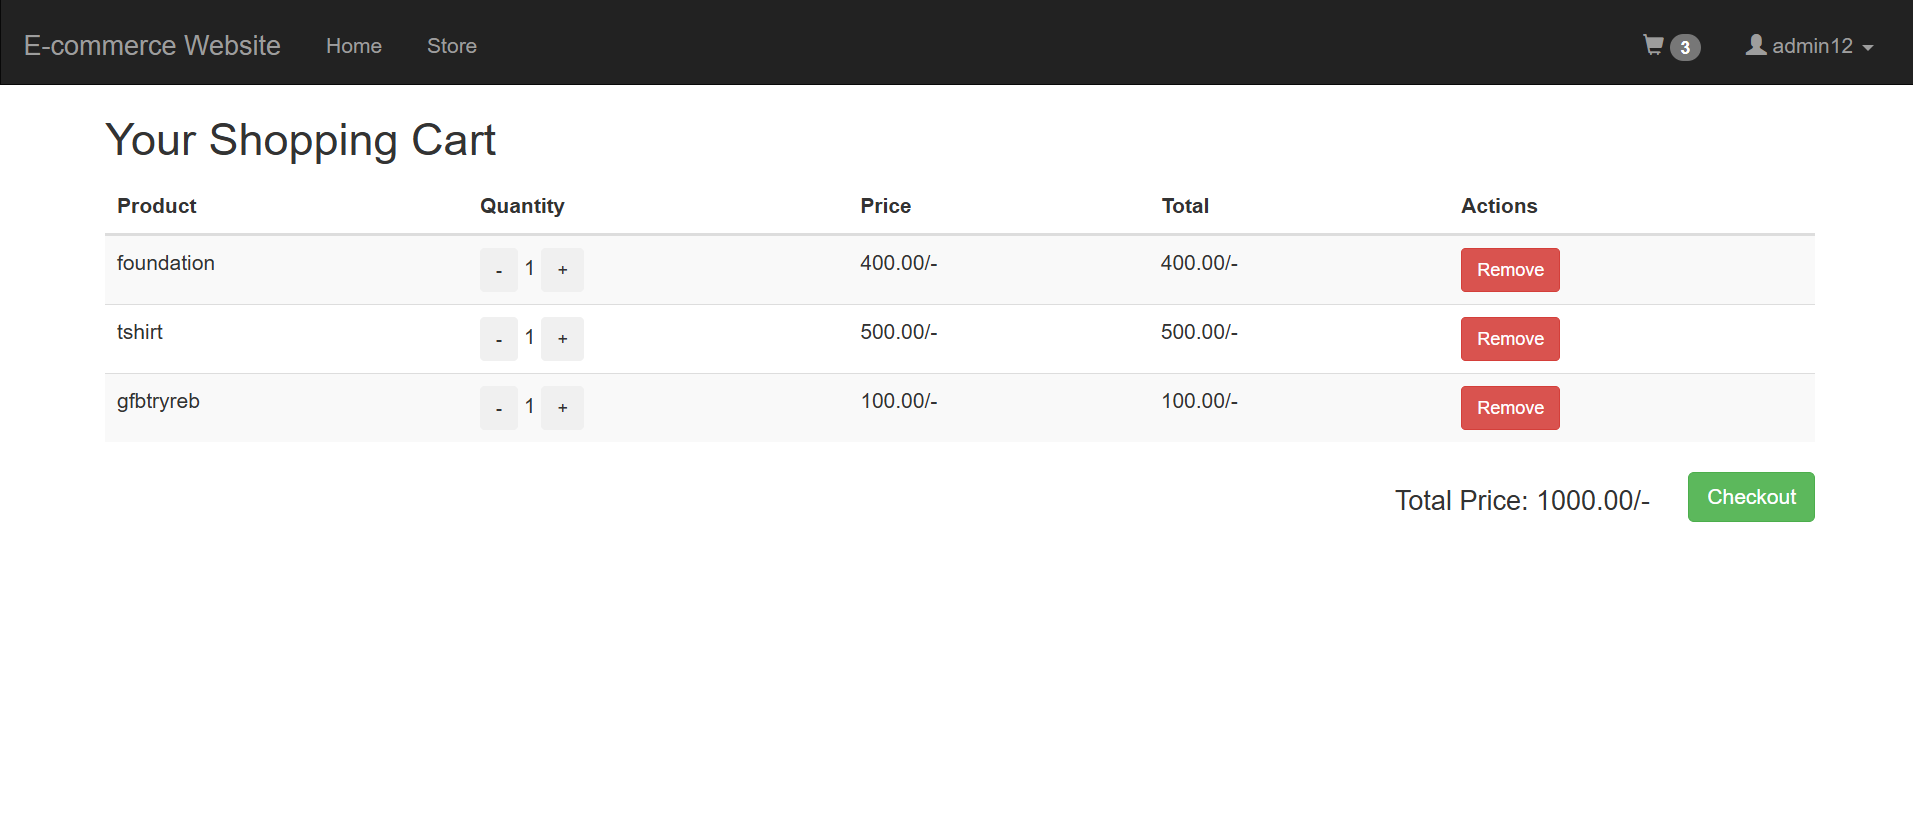
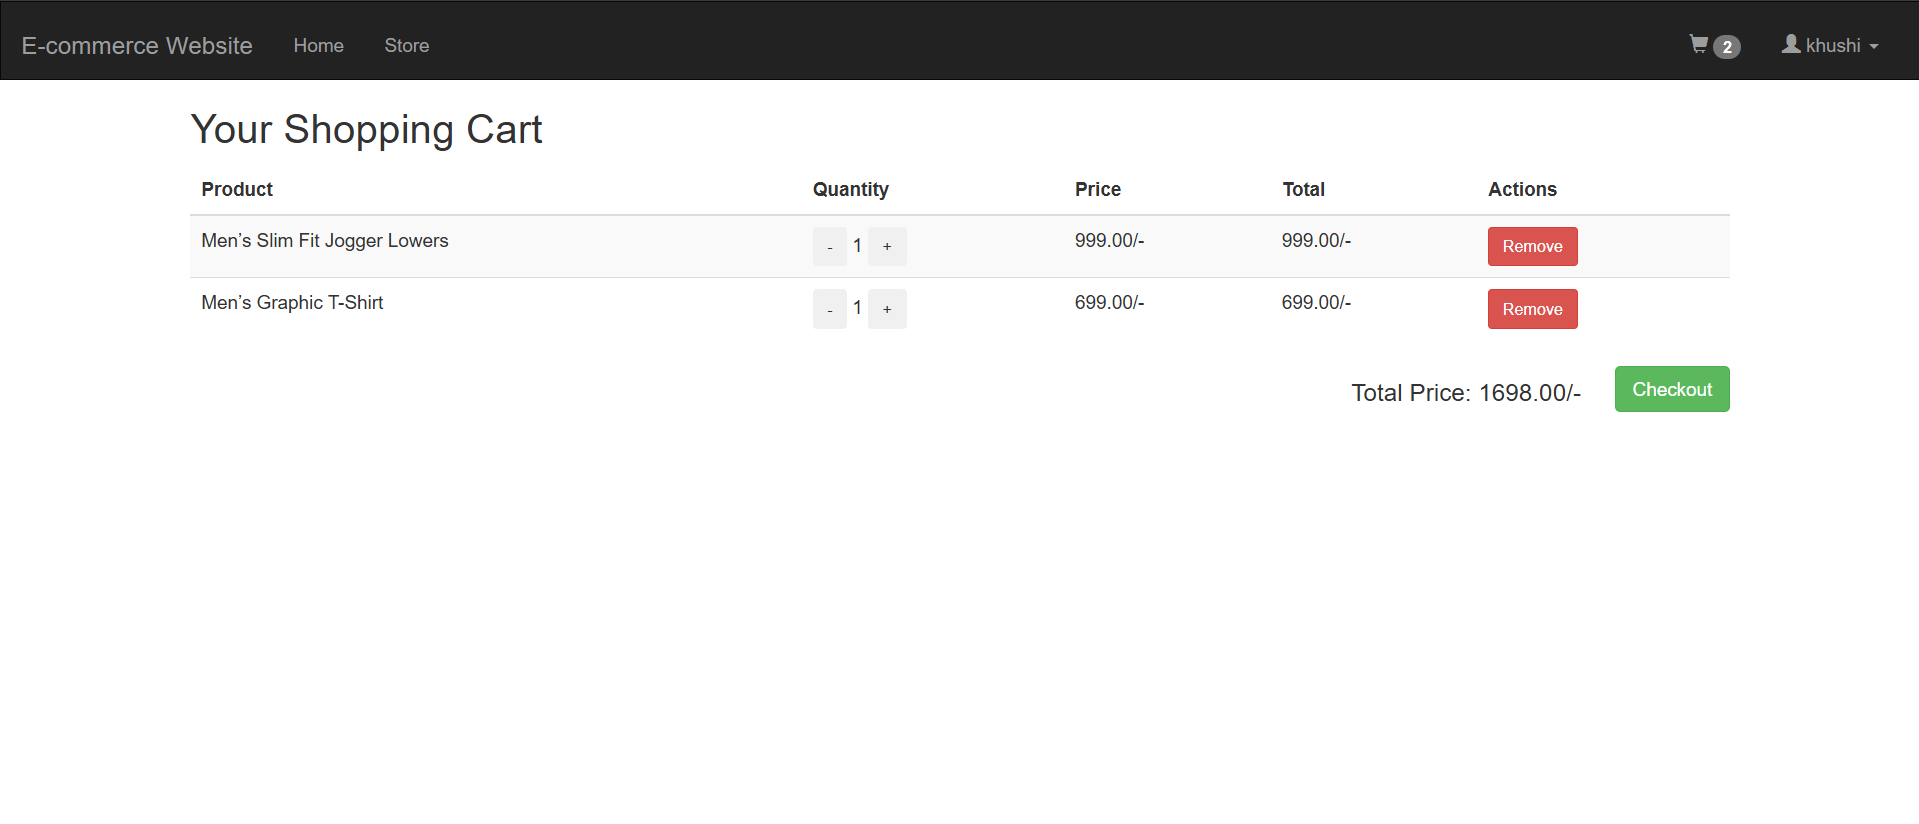
update

diff --git a/app/templates/app/store.html b/app/templates/app/store.html
@@ -45,7 +45,7 @@
 </style>
 {% endblock %}
 {% block body %}
-<h1 align="center">{{subcategory}}</h1>
+<h1 align="center">Store</h1>
 <div class="container">
     <div class="row">
         {% for product in products %}

diff --git a/README.md b/README.md
@@ -12,7 +12,7 @@ A full-stack E-commerce website built using Django that allows users to browse p
 
 | Cart Page                         | Order Details Page                  |
 |----------------------------------|-------------------------------------|
-| ![Cart](screenshots/cart.png)    | ![Order Details](screenshots/orderdetails.png) |
+| ![Cart](screenshots/cart.png)    | ![Order Details](screenshots/order_detail.png) |
 
 
 ## 🚀 Features
